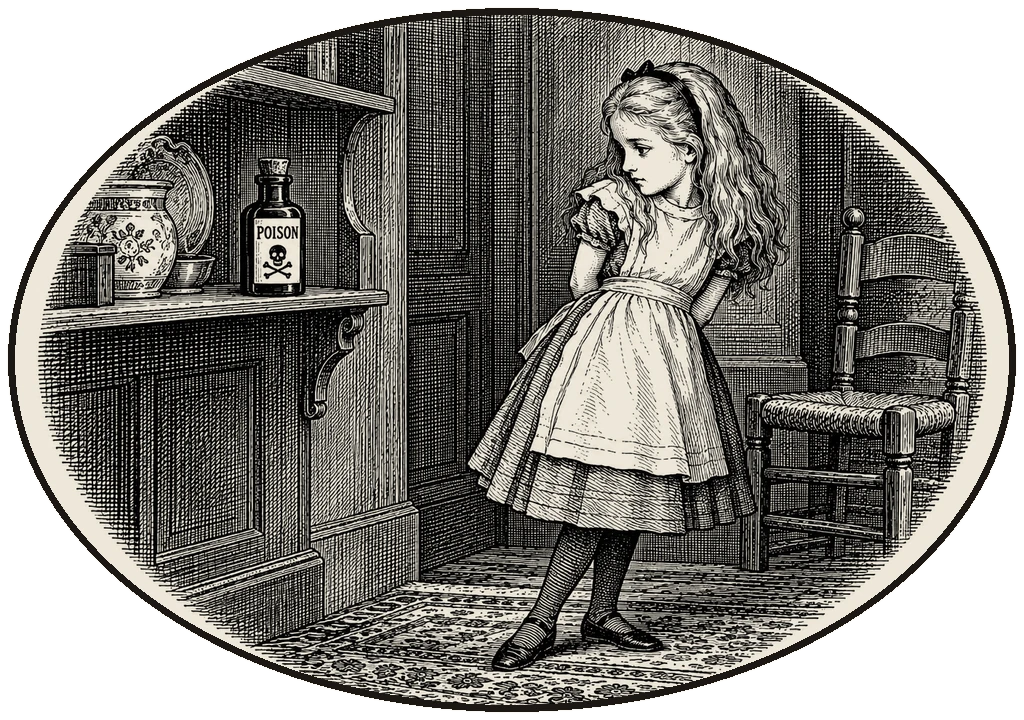
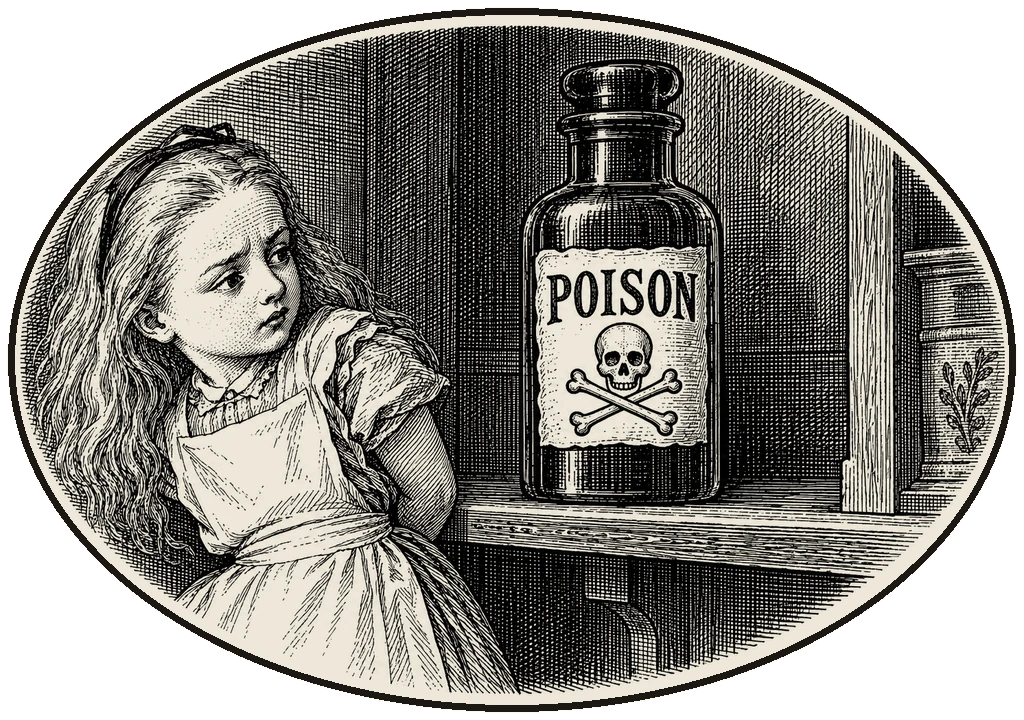
Poison thought redrawn close up (owner); thought cards at least ~220 screen pixels wide so they can be read on phones
Claude-Session: https://claude.ai/code/session_01JLwjHTre9qSRtmM6Ke648R

diff --git a/src/thoughts.js b/src/thoughts.js
@@ -25,6 +25,7 @@ export function thoughts(group, list) {
       if (!card.visible) continue;
       card.position.set(pos.x, pos.y, pos.z);
       card.scale.setScalar(size * open);
+      card.userData.open = open;
     }
   };
 }
@@ -46,7 +47,12 @@ export function keepThoughtsInView(camera) {
     const minX = -hx * 0.94, maxX = hx * 0.94, minY = -hy * 0.3, maxY = hy * 0.94;
     let s = card.scale.x;
     const fit = Math.min((maxX - minX) / 1.0, (maxY - minY) / 0.7) * 0.9;
-    if (s > fit) { s = fit; card.scale.setScalar(s); }
+    // Big enough to read (owner, 2026-10-14): at least about 220 screen pixels wide (more than half a
+    // small phone's picture), whatever the shot; still opening and closing with the card.
+    const least = Math.min(fit, 2 * hx * Math.min(0.55, 220 / Math.max(1, innerWidth))) * (card.userData.open ?? 1);
+    if (s < least) s = least;
+    if (s > fit) s = fit;
+    card.scale.setScalar(s);
     const halfW = 0.5 * s, halfH = 0.35 * s;
     v.x = THREE.MathUtils.clamp(v.x, minX + halfW, maxX - halfW);
     v.y = THREE.MathUtils.clamp(v.y, minY + halfH, maxY - halfH);

diff --git a/PROVENANCE.md b/PROVENANCE.md
@@ -99,7 +99,7 @@ Every shipped asset is listed here with its source. AI-generated or AI-modified 
 | ai_vignette_histories | `public/art/ai/vignettes/histories.webp` | AI | Chapter I prompt 44; original in `source/ai/vignette_histories.png`, style from `source/ai/vignette_dinah.webp` | OpenAI gpt-image-2.5-sunburst via the API (generated by Claude Code, 2026-10-14) | Whole image generated. Paper-tinted, fitted to the thought oval and outlined (`tools/ch1_art.py`). Used in Chapter I, the hall. | 2026-10-14 | Owner (requested), Claude Code (generated, processed) |
 | ai_vignette_poker | `public/art/ai/vignettes/poker.webp` | AI | Chapter I prompt 27; original in `source/ai/vignette_poker.png`, style from `source/ai/vignette_dinah.webp` | OpenAI gpt-image-2.5-sunburst via the API (generated by Claude Code, 2026-10-14) | Whole image generated. Paper-tinted, fitted to the thought oval and outlined (`tools/ch1_art.py`). The poker's tip coloured red-hot in code (COLOR.md). Used in Chapter I, the hall. | 2026-10-14 | Owner (requested), Claude Code (generated, processed) |
 | ai_vignette_knife | `public/art/ai/vignettes/knife.webp` | AI | Chapter I prompt 28; original in `source/ai/vignette_knife.png`, style from `source/ai/vignette_dinah.webp` | OpenAI gpt-image-2.5-sunburst via the API (generated by Claude Code, 2026-10-14) | Whole image generated. Paper-tinted, fitted to the thought oval and outlined (`tools/ch1_art.py`). Used in Chapter I, the hall. | 2026-10-14 | Owner (requested), Claude Code (generated, processed) |
-| ai_vignette_poison | `public/art/ai/vignettes/poison.webp` | AI | Chapter I prompt 29; original in `source/ai/vignette_poison.png`, style from `source/ai/vignette_dinah.webp` | OpenAI gpt-image-2.5-sunburst via the API (generated by Claude Code, 2026-10-14) | Whole image generated. Paper-tinted, fitted to the thought oval and outlined (`tools/ch1_art.py`). Used in Chapter I, the hall. | 2026-10-14 | Owner (requested), Claude Code (generated, processed) |
+| ai_vignette_poison | `public/art/ai/vignettes/poison.webp` | AI | Chapter I prompt 29, redrawn close up so POISON can be read (owner); original in `source/ai/vignette_poison.png`, style from `source/ai/vignette_dinah.webp` | OpenAI gpt-image-2.5-sunburst via the API (generated by Claude Code, 2026-10-14) | Whole image generated. Paper-tinted, fitted to the thought oval and outlined (`tools/ch1_art.py`). Used in Chapter I, the hall. | 2026-10-14 | Owner (requested), Claude Code (generated, processed) |
 | ai_vignette_seaside | `public/art/ai/vignettes/seaside.webp` | AI | Generated in the same conversation (docs/ASSETS_MASTER.md, Chapter II prompt 33); original in `source/ai/vignette_seaside.webp` | OpenAI ChatGPT (GPT-6 chat); OpenAI image generation, exact image model not disclosed; received 2026-10-11 | Whole image generated. Paper-tinted, fitted to the thought oval and outlined (`tools/ch2_art.py`). Used in Chapter II. | 2026-10-11 | Owner (generated), Claude Code (processed) |
 | ai_vignette_walrus | `public/art/ai/vignettes/walrus.webp` | AI | Generated in the same conversation (docs/ASSETS_MASTER.md, Chapter II prompt 34); original in `source/ai/vignette_walrus.webp` | OpenAI ChatGPT (GPT-6 chat); OpenAI image generation, exact image model not disclosed; received 2026-10-11 | Whole image generated. Paper-tinted, fitted to the thought oval and outlined (`tools/ch2_art.py`). Used in Chapter II. | 2026-10-11 | Owner (generated), Claude Code (processed) |
 | ai_vignette_dinah_fire | `public/art/ai/vignettes/dinah_fire.webp` | AI | Generated in the same conversation (docs/ASSETS_MASTER.md, Chapter II prompt 35); original in `source/ai/vignette_dinah_fire.webp` | OpenAI ChatGPT (GPT-6 chat); OpenAI image generation, exact image model not disclosed; received 2026-10-11 | Whole image generated. Paper-tinted, fitted to the thought oval and outlined (`tools/ch2_art.py`). Used in Chapter II. | 2026-10-11 | Owner (generated), Claude Code (processed) |

diff --git a/docs/HANDOFF.md b/docs/HANDOFF.md
@@ -66,6 +66,7 @@ Updated: 2026-10-13 (end of session 3: Chapters I–II art in, Chapter III's Ali
 - Uploads that arrive mid-turn aren't saved; ask the owner to resend as a normal message. Screenshots are low quality: ask for the downloaded original.
 - Save the original to `source/ai/<name given in the prompt>.webp|png`. Process it: `tools/whitecut.py` (cut out from white, paper-tint; `--clear x,y;…` clears enclosed gaps; `--opaque` for full-frame art), `tools/compose_poses.py` (Alice whole-figure poses, scaled to the model sheet; `DRAWN` list), `tools/hall_props.py` (an example of a set-piece pipeline), `tools/small_props.py` (small props: key, bottle, cake, glass box, fan; gold colouring, see-through glass). Output to `public/art/ai/…`.
 - Wire it into the scene in place of the placeholder; screenshot and look.
+- **Thought cards must be readable on a phone** (owner, 2026-10-14): draw the thing named large and close (e.g. the POISON label), and `keepThoughtsInView` keeps every open card at least ~220 screen pixels wide. On a small portrait phone a card can then cover part of Alice.
 - **Re-direct the chapter's camera when its art arrives** (owner, 2026-10-13): Alice in the picture at least every 10–15 s unless the text takes her out (her point of view, close-ups of a prop, another character alone). Check with `node tools/frame_report.mjs URL N` (lists the stretches with Alice on stage but out of the picture). Watch mode already turns the camera to take her in when a shot only cuts her at the edge, and thought cards are kept in the picture (`keepAliceInFrame` in main.js, `keepThoughtsInView` in thoughts.js). Worst so far: Chapters XI, VI, XII, III.
 - **Log every asset in PROVENANCE.md** (AI disclosure for Steam), then rerun `python3 tools/assets_master.py` (ticks it).
 - Alice's model sheet is `source/ai/alice_turnaround.webp`: every Alice drawing must match it.
